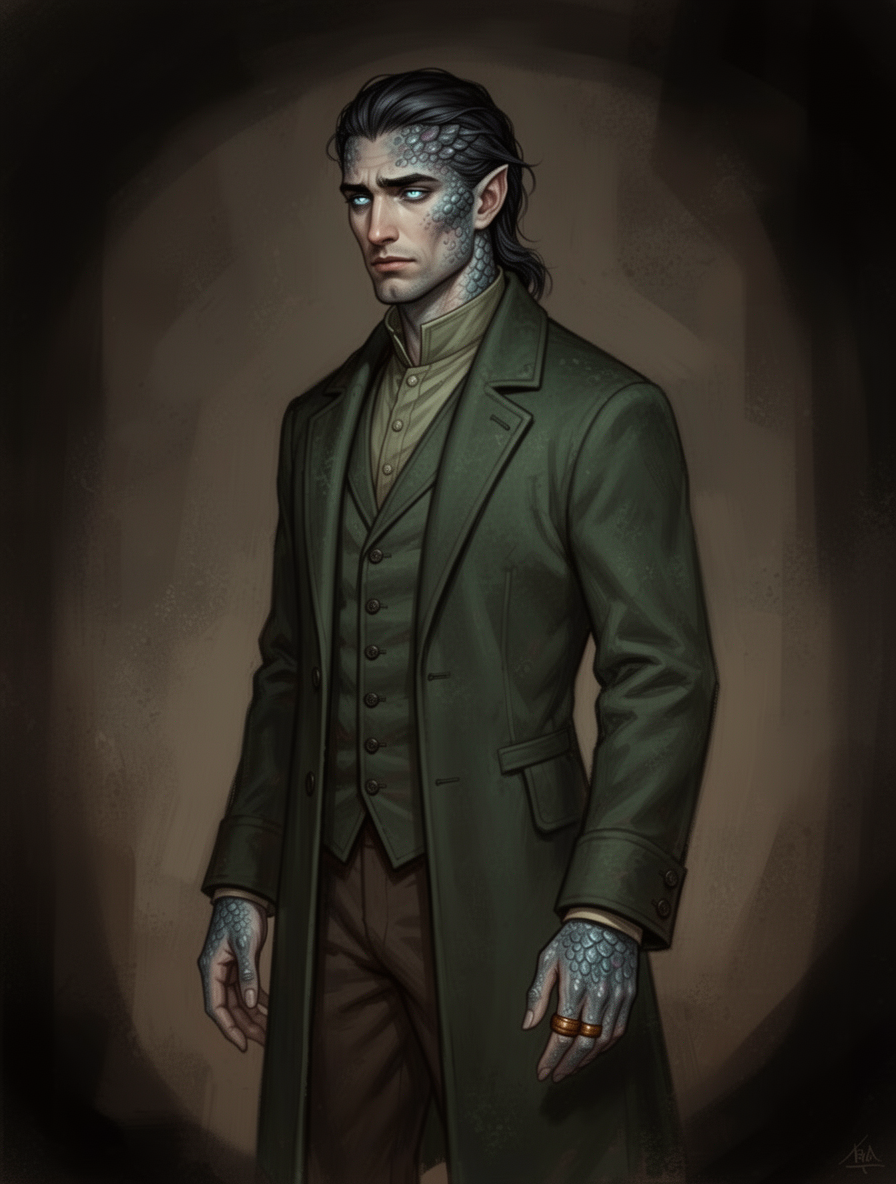
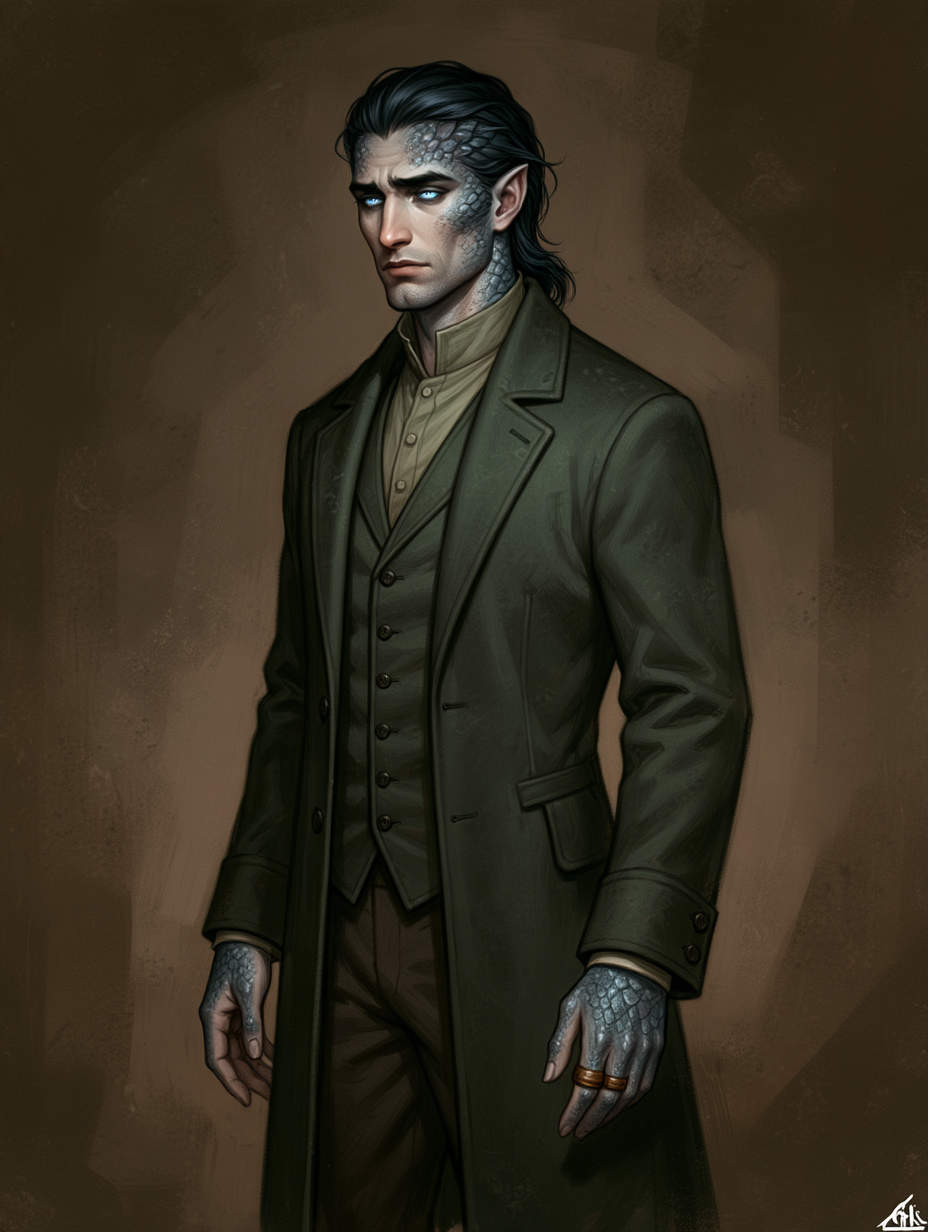
Complete the Veldtmark cast art, and make fixing the prompt the rule over --no
Sera Vance's set and Caevan Veldtmark's re-rendered set land here, finishing all
five: Caevan, Odo Mast, Aldous, Harlen Doss and Sera, three shots each. Every
set took the same route, an anchor rendered where the face worked and the
remaining shots done in Midjourney with that anchor attached to the prompt,
recorded in each spec's render block.

The image-prompts skill now states the general rule plainly: in roughly 99% of
cases the right move is to change the prompt rather than add a negative. If a
render is wrong the prompt described the wrong thing, and saying the right thing
usually removes the wrong thing on its own. A too-cheerful face is fixed by
describing the brow, not by forbidding "cheerful"; a skeletal man is fixed by
describing flesh, not by forbidding "skeleton". No spec currently carries a
negative.

diff --git a/.claude/skills/image-prompts/SKILL.md b/.claude/skills/image-prompts/SKILL.md
@@ -105,18 +105,24 @@ them draw it.
 
 ---
 
-## The `negative` field: use it almost never
+## The `negative` field: fix the prompt instead
 
-A spec may carry `negative`, which reaches Midjourney as `--no`. **The default
-is to have none.** Both specs that were given one had it removed again within
-the hour, each time because the flag was fighting something the prompt wanted.
-Reach for it only when a specific failure has repeated across several renders
-and no positive phrasing has moved it, and expect to delete it once an anchor
+A spec may carry `negative`, which reaches Midjourney as `--no`. **In roughly
+99% of cases the right move is to change the prompt, not to add a negative.**
+The default is to have none.
+
+If a render is wrong, the prompt described the wrong thing. Say the right thing
+and the wrong thing usually leaves on its own: a too-cheerful face is fixed by
+describing the brow, not by forbidding *cheerful*; a skeletal man is fixed by
+describing flesh, not by forbidding *skeleton*.
+
+`--no` is blunt. It suppresses a **concept**, not the excess of a concept, and
+it cannot tell the difference between the version you hate and the version you
+want. Both specs that were given one had it removed again within the hour, each
+time because the flag was fighting something the prompt wanted.
+
+If you do add one, expect it to be temporary, and delete it as soon as an anchor
 exists.
-
-It is a blunt instrument: `--no` suppresses a **concept**, not the excess of a
-concept, and it cannot tell the difference between the version you hate and the
-version you want.
 
 A list written to curb a too-cheerful Harlen (`grin, broad smile, cheerful,
 jolly`) removed his smile altogether, because every one of those entries carries
